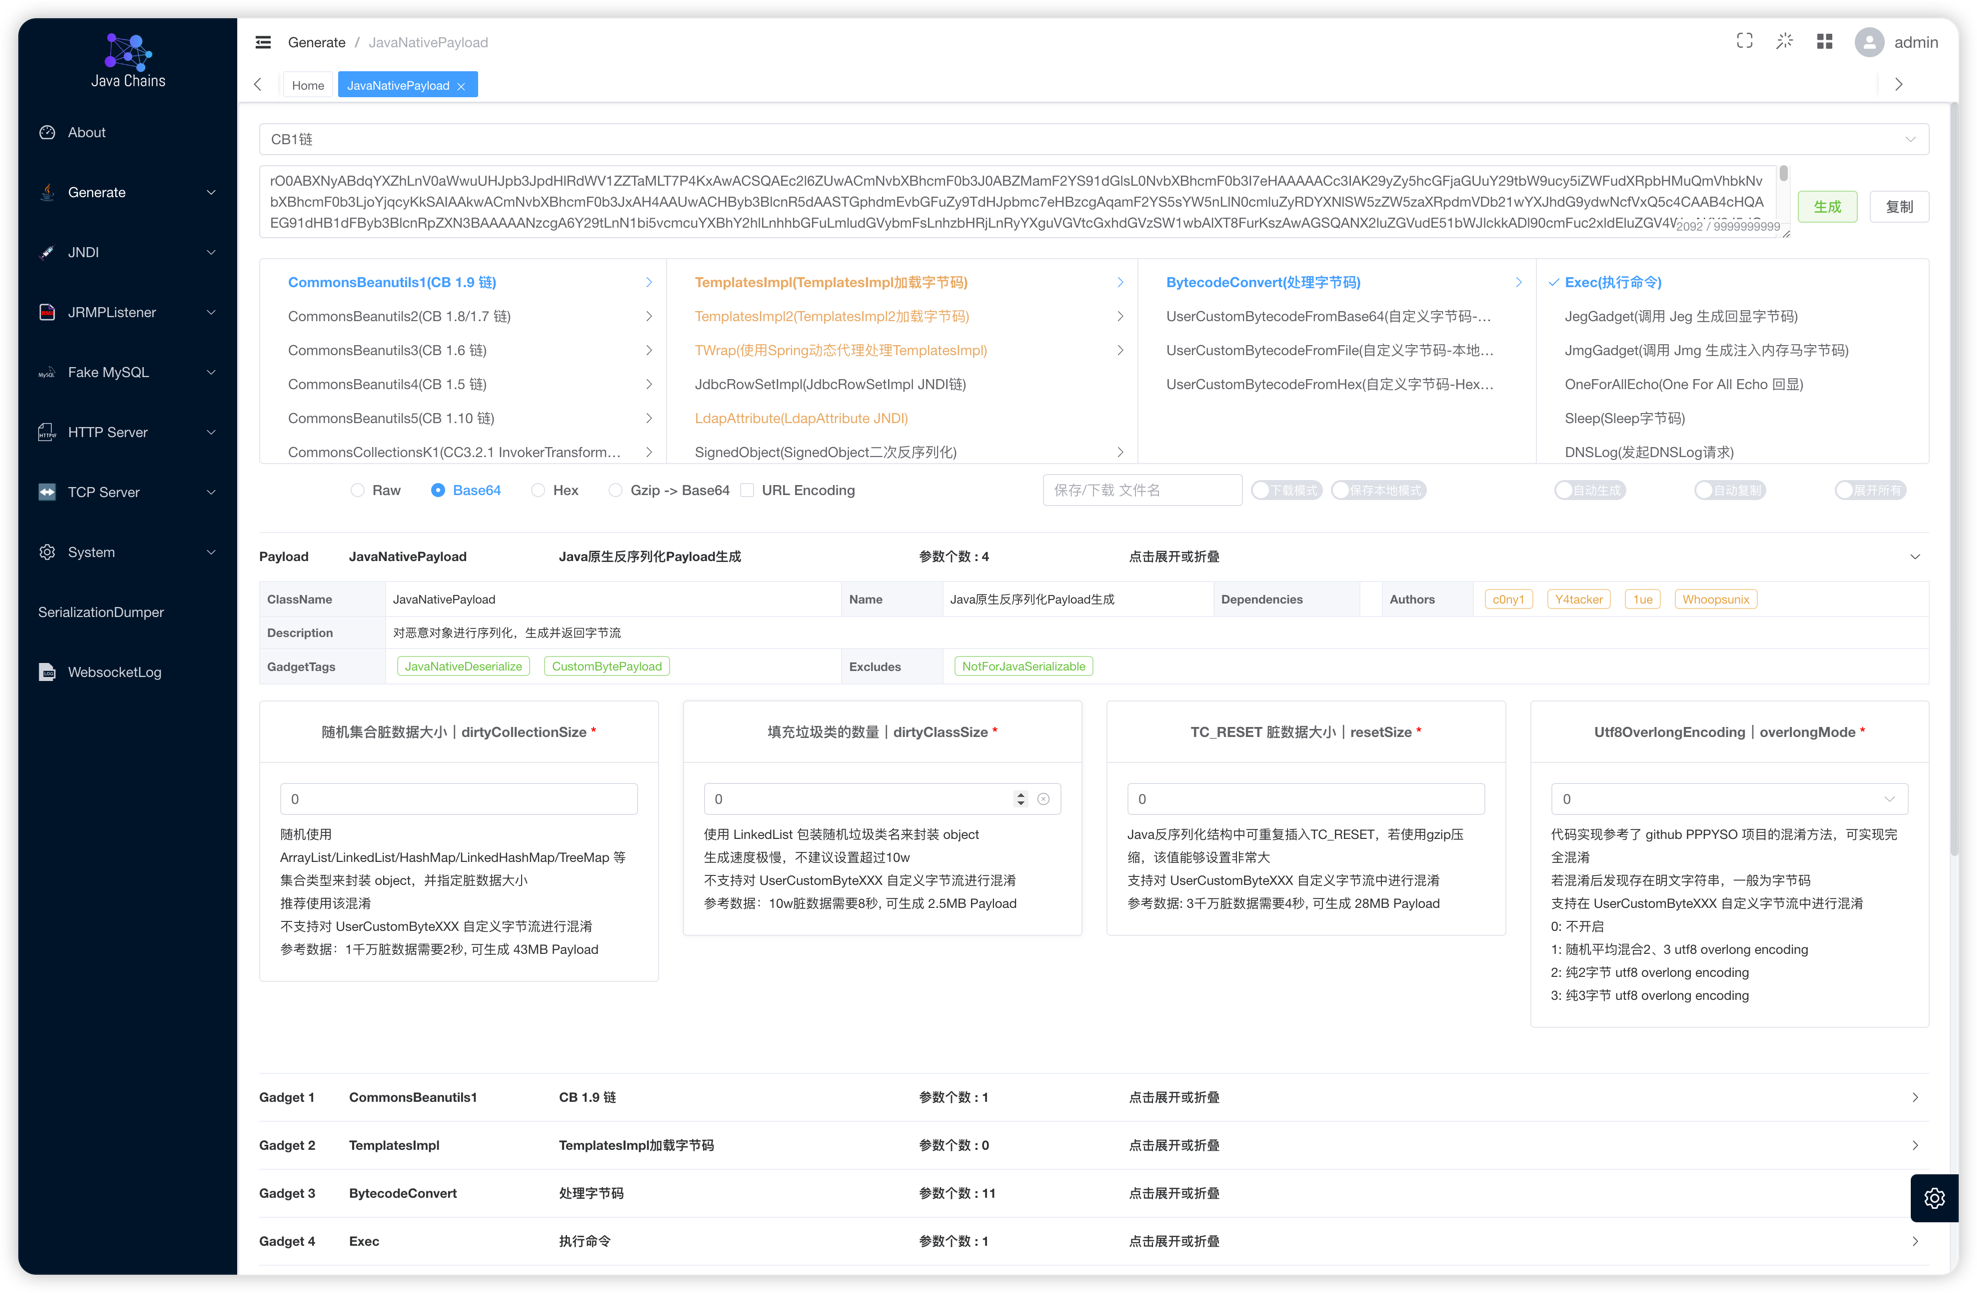
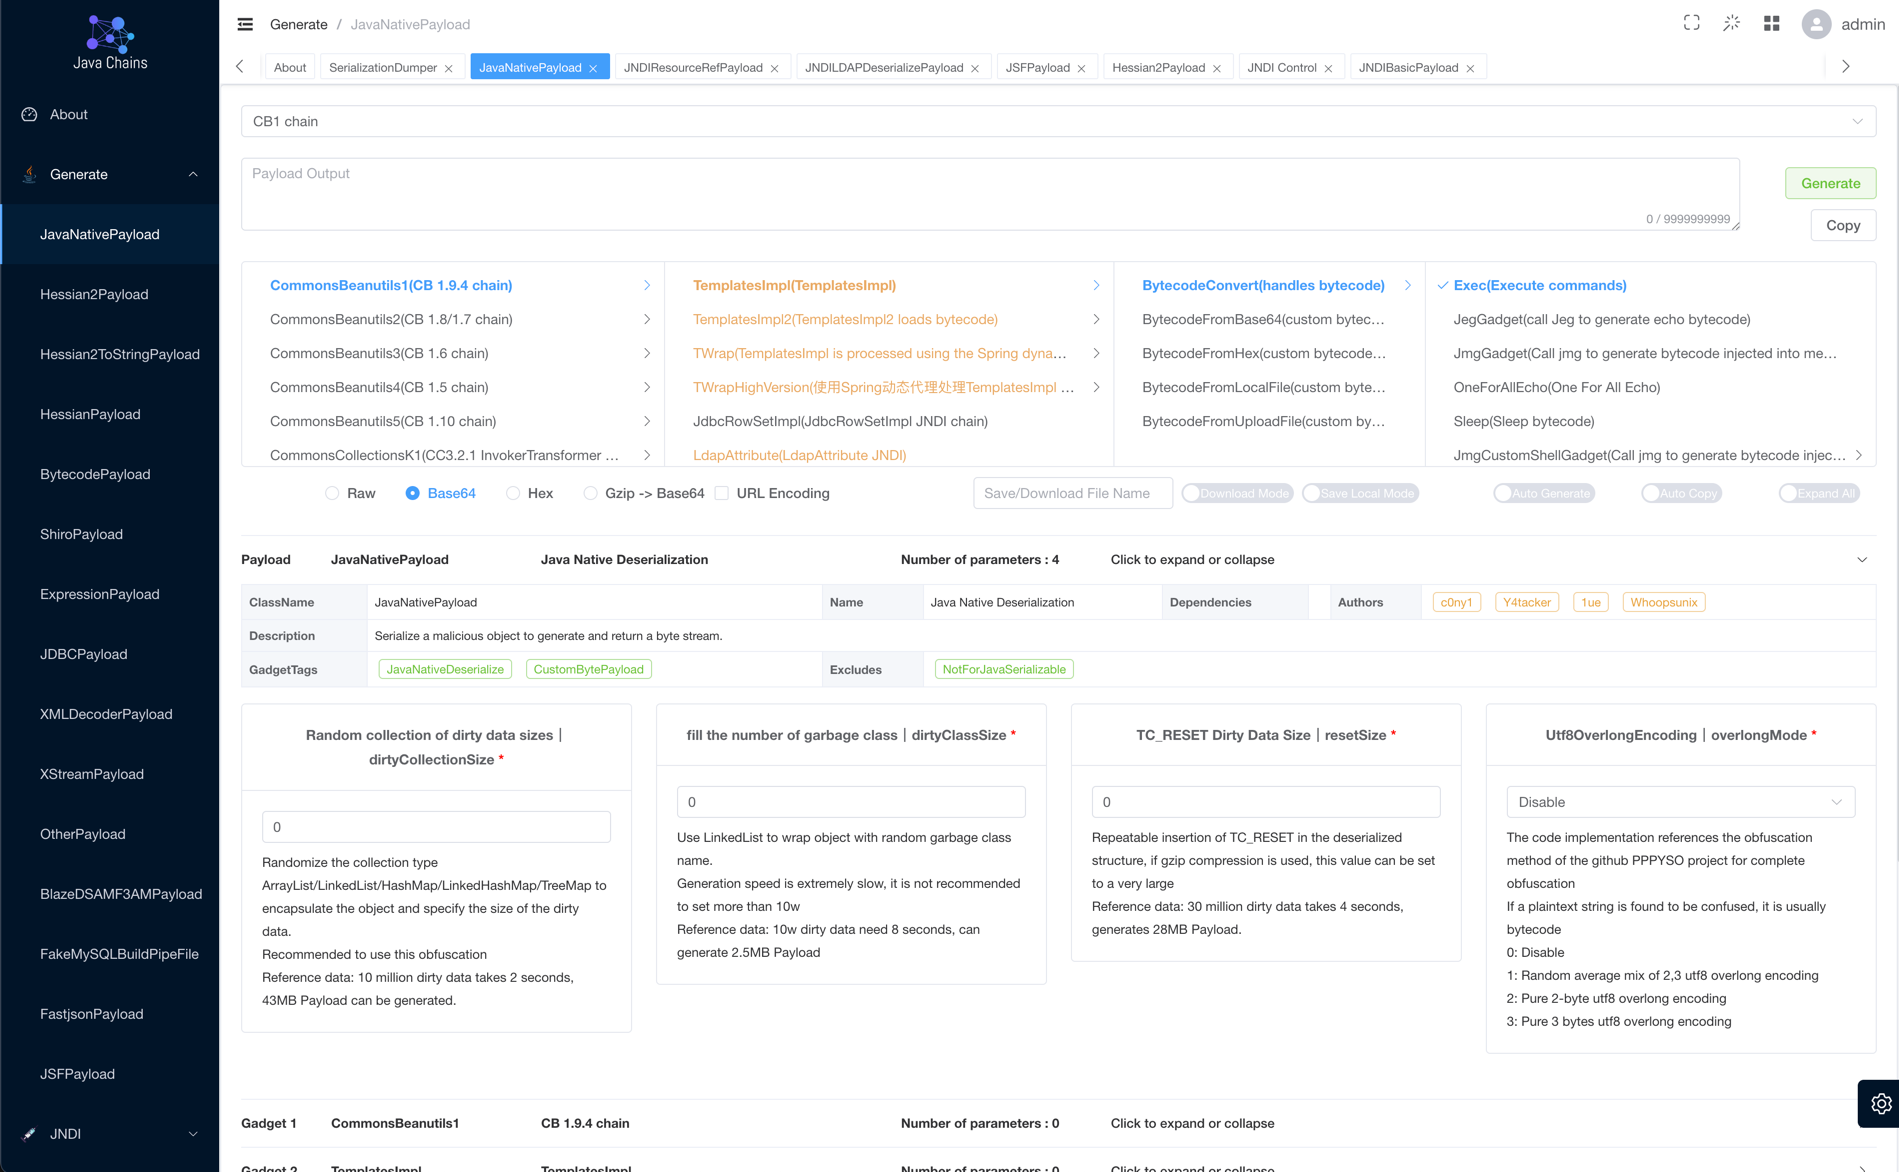
update png

diff --git a/src/pages/index.tsx b/src/pages/index.tsx
@@ -37,7 +37,7 @@ function Preview() {
     const currentLocale = i18n.currentLocale; // 从上下文中获取当前 locale
 
     // 根据 locale 动态构建图片路径
-    const imageName = currentLocale === 'en' ? 'main-en.png' : 'main.png';
+    const imageName = currentLocale === 'en' ? 'main.png' : 'main.zh-cn.png';
     const imagePath = `/img/${imageName}`;
     const imageUrl = useBaseUrl(imagePath); // 使用 useBaseUrl 解析路径
 

diff --git a/docs/module/generate.md b/docs/module/generate.md
@@ -19,7 +19,7 @@ Java 反序列化原生 Payload 生成
 - C3p0：JNDI链、二次反序列化链、原生类加载链，支持两个不同的SUID版本
 - FindClass 探测类，搜集网上大部分gadget类，可探测 100+ 个类。探测 payload 中间隔插入canary，可辅助判断哪些类被拉入黑名单导致探测失败。支持手动设置、文件读取，可自定义批量探测类
 
-![](@site/static/img/main.png)
+![](@site/static/img/main.zh-cn.png)
 
 ## HessianPayload
 

diff --git a/i18n/en/docusaurus-plugin-content-docs/current/module/generate.md b/i18n/en/docusaurus-plugin-content-docs/current/module/generate.md
@@ -23,7 +23,7 @@ Some commonly used chains are displayed:
   in the detection payload to assist in determining which classes are blacklisted, causing detection failure. Supports
   manual setting, file reading, and custom batch detection classes.
 
-![](@site/static/img/main-en.png)
+![](@site/static/img/main.png)
 
 ## HessianPayload
 
